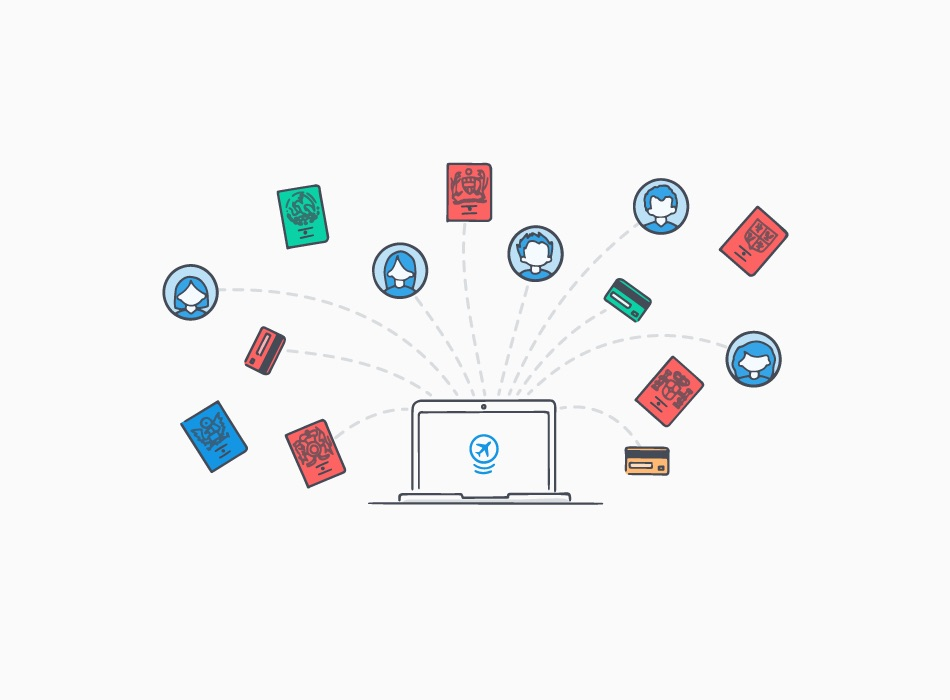
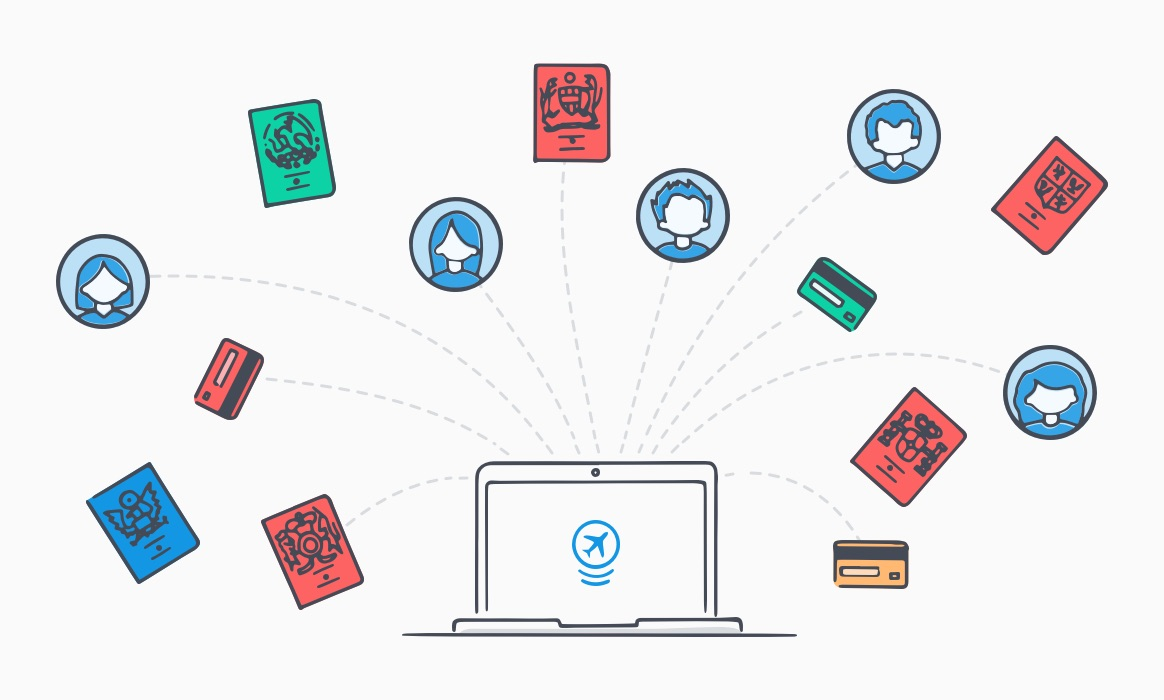
Updated itineraries image, traveler details and payment options.

diff --git a/_includes/component/customer-types.html b/_includes/component/customer-types.html
@@ -45,7 +45,7 @@
       </div>
       <div class="feature flex two reverse">
         <span>
-          <img src="/imgs/product-shots/travel-documents.jpg" alt="Multiple travel documents">
+          <img src="/imgs/product-shots/single-itinerary.jpg" alt="Multiple travel documents">
         </span>
         <div class="content">
           <h3>One booking confirmation for the complete trip</h3>
@@ -54,7 +54,7 @@
       </div>
       <div class="feature flex two">
         <span>
-          <img src="/imgs/product-shots/new-traveler.jpg  " alt="New traveler form">
+          <img src="/imgs/product-shots/travel-documents.jpg" alt="Business travel documents">
         </span>
         <div class="content">
           <h3>Easily manage traveler details</h3>
@@ -72,20 +72,20 @@
       </div>
       <div class="feature flex two">
         <span>
-          <img class="product-shot" src="/imgs/product-shots/clean-ui.jpg" alt="TravelPerks clean and simple UI">
-        </span>
-        <div class="content">
-          <h3>Clean &amp; Simple design</h3>
-          <p>Gone are the days of complex and clunky user interfaces. Booking travel should be easy and <em>(yes, we'll say it)</em> fun. With our simple user interface you can spend your time efficiently booking travel and not trying to navigate complex tools.</p>
-        </div>
-      </div>
-      <div class="feature flex two reverse">
-        <span>
           <img class="product-shot" src="/imgs/product-shots/integration-expense.jpg" alt="TravelPerk integrates with Expensify">
         </span>
         <div class="content">
           <h3>Expenses integration</h3>
           <p>Your travel bookings will automagically appear in your expense report thanks to TravelPerk's integrated expense management partners.</p>
+        </div>
+      </div>
+      <div class="feature flex reverse two">
+        <span>
+          <img class="product-shot" src="/imgs/product-shots/clean-ui.jpg" alt="TravelPerks clean and simple UI">
+        </span>
+        <div class="content">
+          <h3>Clean &amp; Simple design</h3>
+          <p>Gone are the days of complex and clunky user interfaces. Booking travel should be easy and <em>(yes, we'll say it)</em> fun. With our simple user interface you can spend your time efficiently booking travel and not trying to navigate complex tools.</p>
         </div>
       </div>
     </div>
